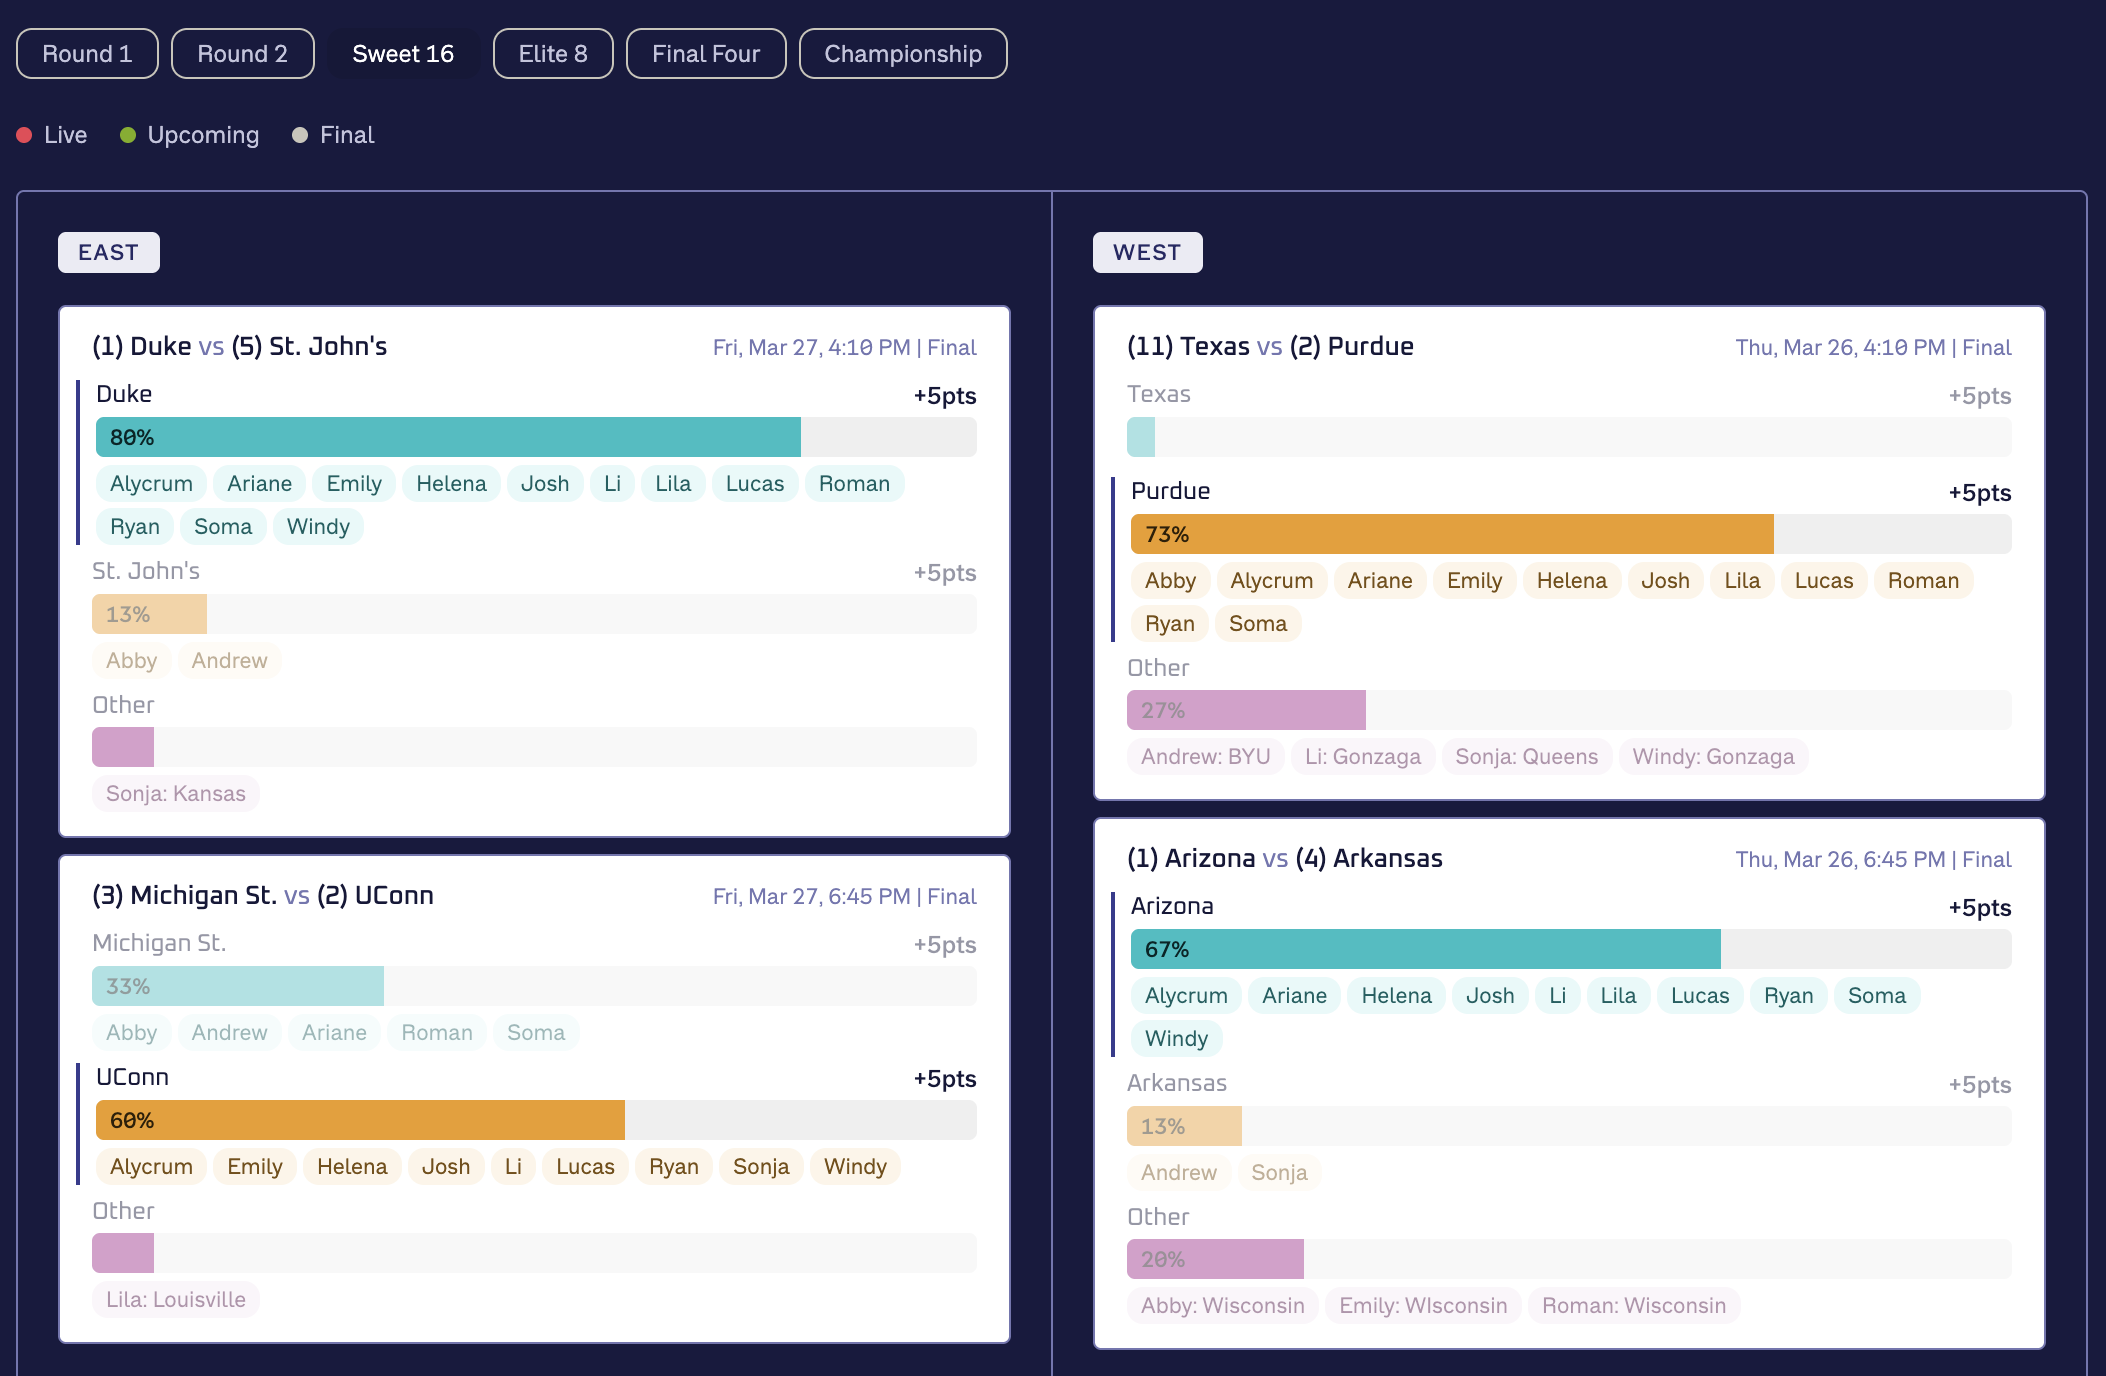
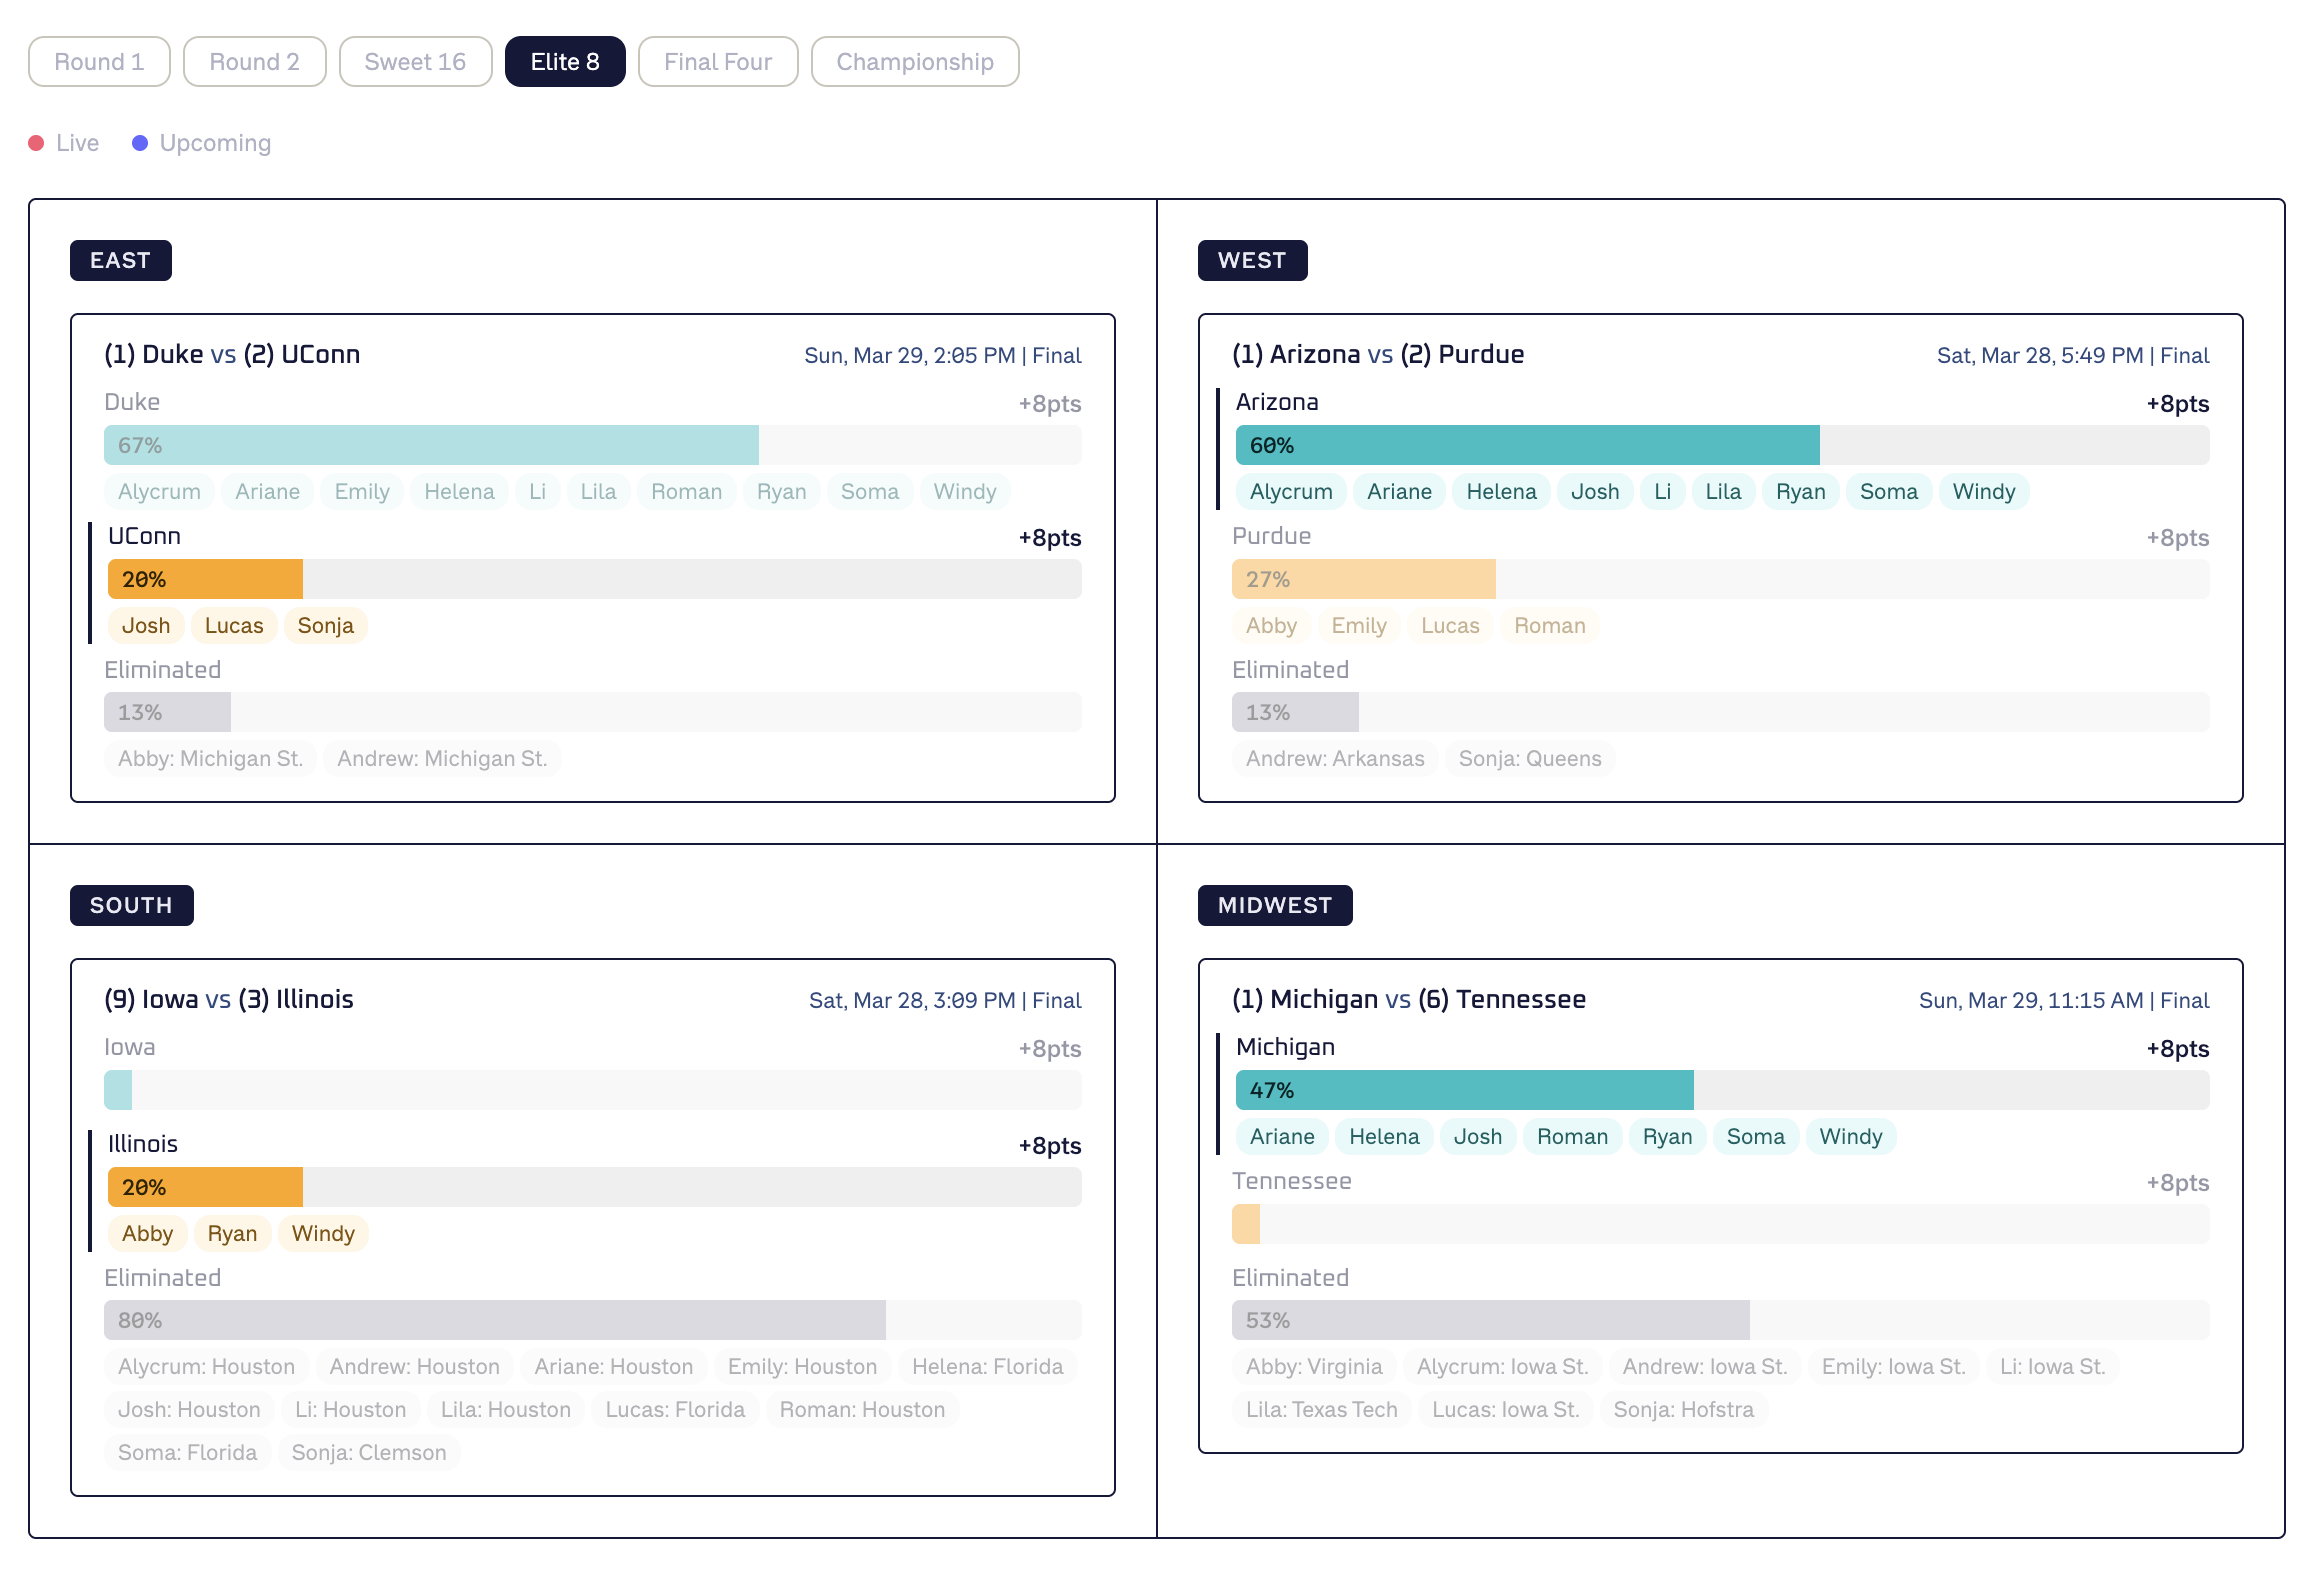
thumbnails

diff --git a/index.html b/index.html
@@ -11,7 +11,7 @@
     <link rel="preconnect" href="https://fonts.gstatic.com" crossorigin>
     <link href="https://fonts.googleapis.com/css2?family=Geomini:wght@200..800&family=Epilogue:ital,wght@0,100..900;1,100..900&family=Host+Grotesk:ital,wght@0,300..800;1,300..800&display=swap" rel="stylesheet">
 
-    <link rel="stylesheet" href="css/style.css"
+    <link rel="stylesheet" href="style.css">
 </head>
 
 <body>
@@ -35,9 +35,9 @@
             <p class="hero-text">
                 I investigate the micro and the macro and illuminate them with visuals.
                 <br><br>
-                I was most recently a scientific editor at <i>Nature</i> journals for ten years. I got hooked on visual data journalism at Columbia University's Lede Program and shifted careers in 2026.
+                I was most recently a scientific editor at <i>Nature</i> journals for ten years. I shifted to visual data journalism in 2026 after getting hooked at Columbia University's Lede Program.
                 <br><br>
-                Check out my <a href="" target="_blank">resume</a>, <a href="http://github.com/var-iane" target="_blank">github</a>, or <a href="https://www.linkedin.com/in/arianevartanian/" target="_blank">LinkedIn</a> and feel free to <a href="mailto:ariane.vartanian@gmail.com">email</a>!
+                Check out my <a href="http://github.com/var-iane" target="_blank">github</a> or <a href="https://www.linkedin.com/in/arianevartanian/" target="_blank">LinkedIn</a> and feel free to <a href="mailto:ariane.vartanian@gmail.com">email</a>!
             </p>
         </section>
 
@@ -58,7 +58,7 @@
                         <div class="tools">
                             <span class="tool">Python</span>
                             <span class="tool">GeoPandas</span>
-                            <span class="tool">Overture Maps (via city2graph)</span>
+                            <span class="tool">Overture Maps</span>
                             <span class="tool">DBSCAN clustering</span>
                             <span class="tool">QGIS</span>
                             <span class="tool">GSAP</span>
@@ -72,7 +72,7 @@
                     <img src="assets/railtowns.png" alt="Railtowns screenshot">
                     <div class="project-card-text">
                         <h3>Railtowns</h3>
-                        <p>Visible patterns in how the U.S. government and railroad companies worked together to aggressively settle the American West.</p>
+                        <p>When railroad companies aggressively settled the American West, they left some telltale patterns.</p>
                         <div class="tools">
                             <span class="tool">Python</span>
                             <span class="tool">QGIS</span>
@@ -86,8 +86,8 @@
                 <a href="https://var-iane.github.io/bart-stations" target="_blank" class="project-card">
                     <img src="assets/stations.png" alt="BART transit story screenshot">
                     <div class="project-card-text">
-                        <h3>Who loses transit access if a California bill fails?</h3>
-                        <p>Some of BART's at-risk stations serve riders who need it most.</p>
+                        <h3>Stations at risk</h3>
+                        <p>Who loses transit access if a California bill fails?</p>
                         <div class="tools">
                             <span class="tool">Python</span>
                             <span class="tool">QGIS</span>
@@ -99,9 +99,9 @@
                 </a>
                 
                 <a href="https://var-iane.github.io/march-madness-tools/bracket-viewer.html" target="_blank" class="project-card">
-                    <img src="assets/bracketviewer1.png" alt="BracketViewer screenshot">
+                    <img src="assets/bracketviewer.png" alt="BracketViewer screenshot">
                     <div class="project-card-text">
-                        <h3>BracketViewer</h3>
+                        <h3>BracketSpy</h3>
                         <p>A March Madness dashboard. Feed in a csv of your pool's picks and rules, and watch your chances change in real time.</p>
                         <div class="tools">
                             <span class="tool">JavaScript</span>

diff --git a/style.css b/style.css
@@ -48,8 +48,13 @@ h6 {
 }
 
 p {
-  /* text-wrap: pretty; */
-  text-wrap: wrap;
+  text-wrap: pretty;
+  /* text-wrap: wrap; */
+}
+@supports (-webkit-touch-callout: none) {
+  p {
+    text-wrap: wrap;
+  }
 }
 h1,
 h2,
@@ -100,7 +105,7 @@ h6 {
 }
 
 :root {
-  --indigo: #4245a3;
+  --indigo: #444AB3;
   --coral: #ff5a5f;
   --gold: #f59e0b;
   --navy: #011627;
@@ -287,7 +292,7 @@ a:focus {
 
 .projects-grid {
   display: grid;
-  grid-template-columns: repeat(auto-fit, minmax(min(350px, 100%), 1fr));
+  grid-template-columns: repeat(auto-fit, minmax(min(300px, 100%), 1fr));
   gap: 1.5rem;
 }
 
@@ -345,7 +350,7 @@ a.project-card:hover {
 }
 
 .graphics-grid {
-  column-width: 400px;
+  column-width: 300px;
   column-gap: 1.5rem;
 }
 
